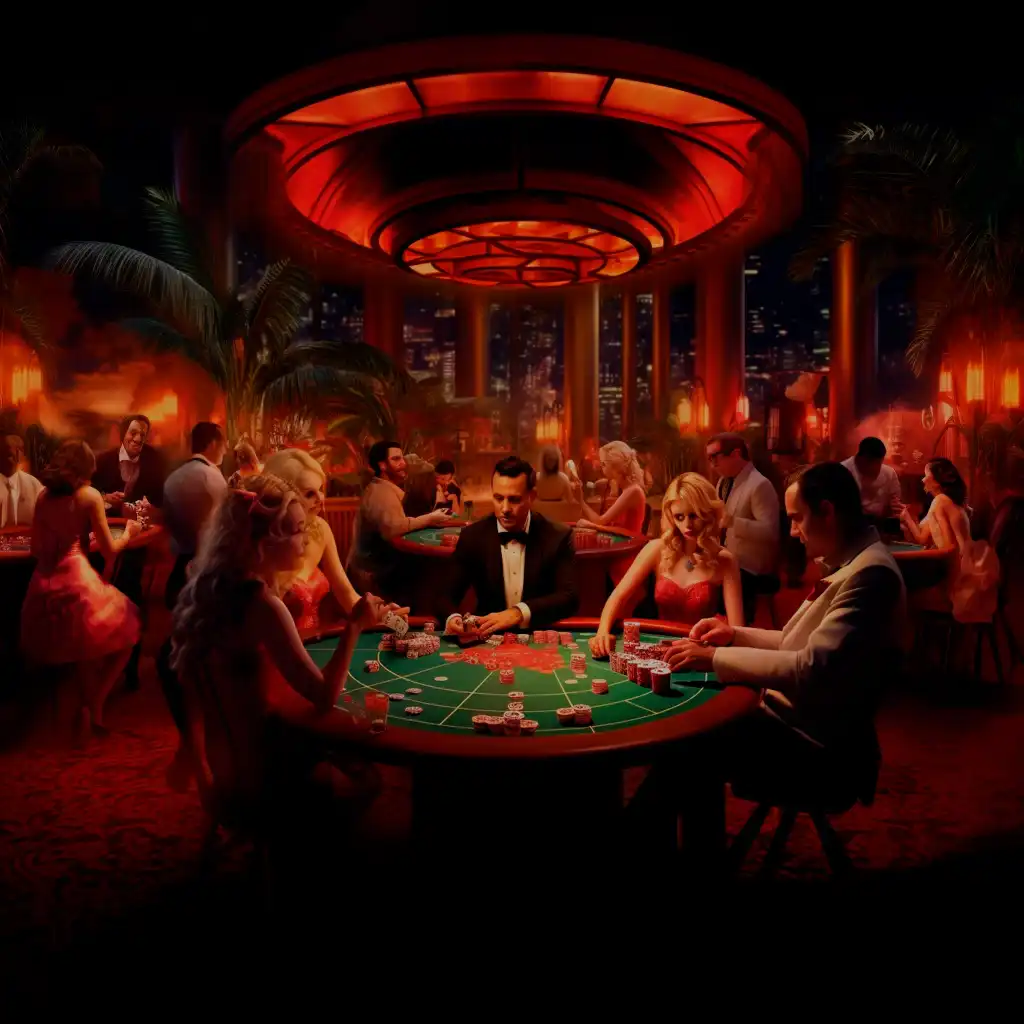
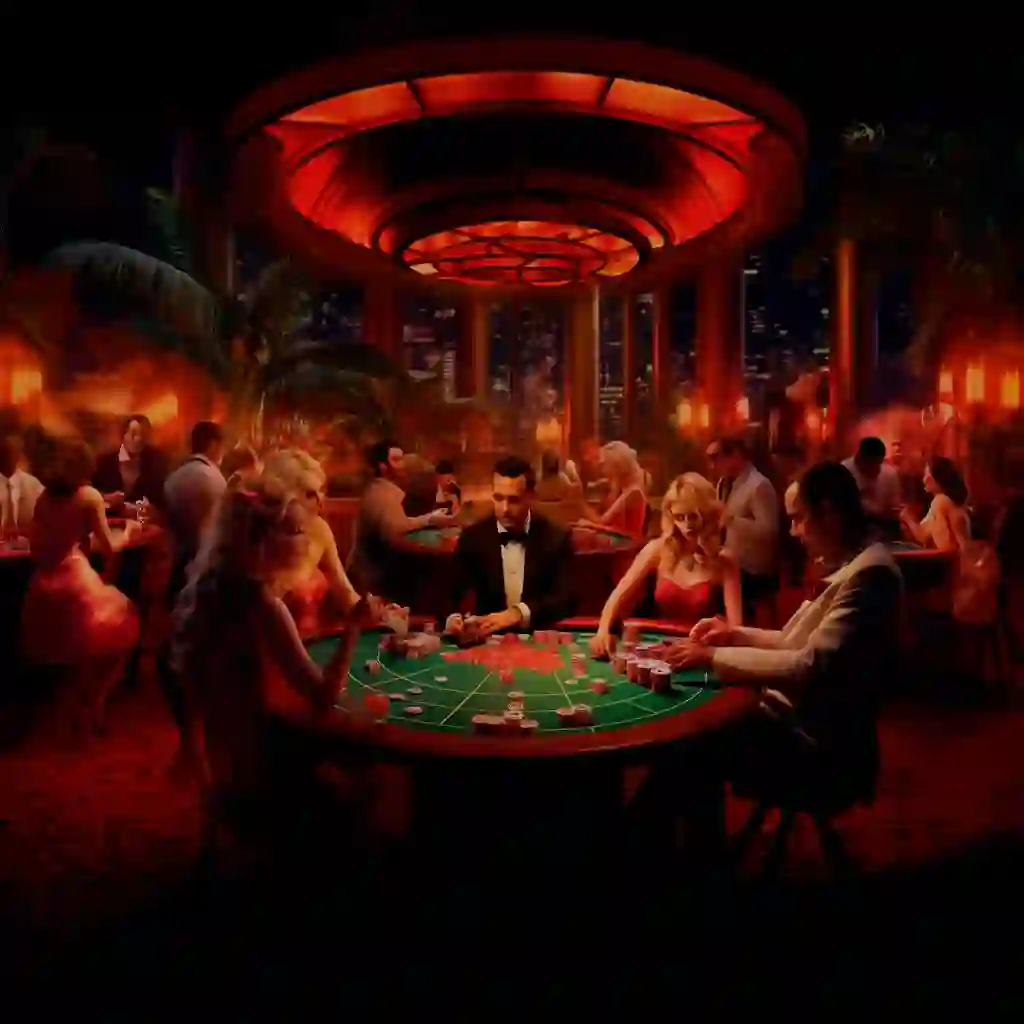
update

diff --git a/resources/views/sidebar.blade.php b/resources/views/sidebar.blade.php
@@ -6,21 +6,39 @@
         </div>
     @endif
 
-	<div class="casino-block-orange">@if($casino->cat_tablegames)<h3><i class="fa-solid fa-dice"></i>Table Games</h3>@endif
-        @if($casino->cat_poker)<h3><i class="fa-solid fa-coins"></i>Poker Tables</h3>@endif
-        @if($casino->cat_slotmachines)<h3><i class="fa-solid fa-dollar-sign"></i>Gaming Machine</h3>@endif
-        @if($casino->cat_sportsbook)<h3><i class="fa-solid fa-basketball"></i>Sports Book</h3>@endif
-        @if($casino->cat_horseracing)<h3><i class="fa-solid fa-horse"></i>Horse Racing</h3>@endif
-        @if($casino->cat_simulcasting)<h3><i class="fa-solid fa-screencast"></i>Simulcast</h3>@endif
-        @if($casino->cat_offtrack)<h3><i class="fa-solid fa-shuffle"></i>Off Track</h3>@endif
-        @if($casino->cat_greyhounds)<h3><i class="fa-solid fa-dog"></i>Greyhounds</h3>@endif
-        @if($casino->cat_bingo)<h3><i class="fa-solid fa-table-list"></i>Bingo</h3>@endif
-        @if($casino->cat_slotmachines)<h3><i class="fa-solid fa-circle-dollar-to-slot"></i>Slot Machines</h3>@endif</div>
+    <div class="casino-block-orange">@if($casino->cat_tablegames)
+            <h3><i class="fa-solid fa-dice"></i>Table Games</h3>
+        @endif
+        @if($casino->cat_poker)
+            <h3><i class="fa-solid fa-coins"></i>Poker Tables</h3>
+        @endif
+        @if($casino->cat_slotmachines)
+            <h3><i class="fa-solid fa-dollar-sign"></i>Gaming Machine</h3>
+        @endif
+        @if($casino->cat_sportsbook)
+            <h3><i class="fa-solid fa-basketball"></i>Sports Book</h3>
+        @endif
+        @if($casino->cat_horseracing)
+            <h3><i class="fa-solid fa-horse"></i>Horse Racing</h3>
+        @endif
+        @if($casino->cat_simulcasting)
+            <h3><i class="fa-solid fa-screencast"></i>Simulcast</h3>
+        @endif
+        @if($casino->cat_offtrack)
+            <h3><i class="fa-solid fa-shuffle"></i>Off Track</h3>
+        @endif
+        @if($casino->cat_greyhounds)
+            <h3><i class="fa-solid fa-dog"></i>Greyhounds</h3>
+        @endif
+        @if($casino->cat_bingo)
+            <h3><i class="fa-solid fa-table-list"></i>Bingo</h3>
+        @endif
+        @if($casino->cat_slotmachines)
+            <h3><i class="fa-solid fa-circle-dollar-to-slot"></i>Slot Machines</h3>
+        @endif</div>
 
 
-
-
-	<div class="casino-block-purple">
+    <div class="casino-block-purple">
         @if($casino->self_parking)
             <h3><i class="fa-solid fa-square-parking"></i>Self parking</h3>
         @endif
@@ -40,45 +58,56 @@
         @if($casino->spas)
             <h3><i class="fa-solid fa-spa"></i>Spas</h3>
         @endif</div>
-	<div class="casino-block" id="sumup">
-		<h3>To sum up</h3>
+    <div class="casino-block" id="sumup">
+        <h3>To sum up</h3>
 
-        <img loading="lazy"
+        <!--  <img loading="lazy"
              src="{{ env('APP_URL') . '/img/casino/mobile/' . $casino->img_url }}"
 
              srcset="{{ env('APP_URL') . '/img/casino/mobile/' . $casino->img_url }} 480w,
              {{ env('APP_URL') . '/img/casino/tablet/' . $casino->img_url }} 768w,
              {{ env('APP_URL') . '/img/casino/desktop/' . $casino->img_url }} 1024w"
              sizes="(max-width: 480px) 480px, (max-width: 768px) 768px, 1024px" alt="Casino presentation" class=" image-casino ">
+-->
+        <picture>
+            <source media="(min-width: 768px)"
+                    srcset="{{ env('APP_URL') . '/img/casino/desktop/' . $casino->img_url }}">
+            <source media="(max-width: 767px)"
+                    srcset="{{ env('APP_URL') . '/img/casino/mobile/' . $casino->img_url }}" width="300"
+                    height="200">
+            <img loading="lazy" class="rounded-3 img-fluid image-casino center-image"
+                 src="{{ env('APP_URL') . '/img/casino/desktop/' . $casino->img_url }}"
+                 alt="{{ $casino->name }}">
+        </picture>
 
+        <p class="pt-3">{!!  $casinoDetail->sumup!!}</p>
+    </div>
 
+    <div class="casino-block" id="games">
+        <h3>Games</h3>
+        <img loading="lazy" src="/img/sidebar-games.webp" alt="Casino Games" class="image-casino">
+        <p class="pt-3">{!!  $casinoDetail->games!!}</p>
+    </div>
 
-		<p class="pt-3">{!!  $casinoDetail->sumup!!}</p>
-	</div>
+    <div class="casino-block" id="funfacts">
+        <h3>Fun Facts</h3>
+        <img loading="lazy" src="/img/sidebar-facts.webp" alt="Casino Fun facts" class=" image-casino">
+        <p class="pt-3">{!!  $casinoDetail->fun_facts!!}</p>
+    </div>
 
-	<div class="casino-block" id="games">
-		<h3>Games</h3>
-		<img loading="lazy"  src="/img/sidebar-games.jpg" alt="Casino Games" class="image-casino">
-		<p class="pt-3">{!!  $casinoDetail->games!!}</p>
-	</div>
-
-	<div class="casino-block" id="funfacts">
-		<h3>Fun Facts</h3>
-		<img  loading="lazy"    src="/img/sidebar-facts.jpg" alt="Casino Fun facts" class=" image-casino">
-		<p class="pt-3">{!!  $casinoDetail->fun_facts!!}</p>
-	</div>
-
-	<div class="casino-block" id="contact">
-		<h3>Contact</h3>
-		<img  loading="lazy"   src="/img/sidebar-contact.jpg" alt="Casino contact" class=" image-casino">
-        <br>  <br>
-		<p>
+    <div class="casino-block" id="contact">
+        <h3>Contact</h3>
+        <img loading="lazy" src="/img/sidebar-contact.webp" alt="Casino contact" class=" image-casino">
+        <br> <br>
+        <p>
             @if($casino->telephone)
-                <i class="fa-solid fa-phone"></i> &nbsp; <a href="tel:{{  $casino->telephone   }}">{{  $casino->telephone   }}</a>
+                <i class="fa-solid fa-phone"></i> &nbsp; <a
+                    href="tel:{{  $casino->telephone   }}">{{  $casino->telephone   }}</a>
                 <br>
             @endif
             @if($casino->email)
-                <i class="fa-solid fa-envelope"></i> &nbsp; <a href="mailto:{{  $casino->email   }}">{{  $casino->email   }}</a>
+                <i class="fa-solid fa-envelope"></i> &nbsp; <a
+                    href="mailto:{{  $casino->email   }}">{{  $casino->email   }}</a>
                 <br>
             @endif
             @if($casino->adresse)
@@ -86,10 +115,11 @@
                 <br>
             @endif
             @if($casino->website)
-                <i class="fa-solid fa-globe"></i> &nbsp;<a href="{{  $casino->website   }}" target="_blank">Casino Website</a>
+                <i class="fa-solid fa-globe"></i> &nbsp;<a href="{{  $casino->website   }}" target="_blank">Casino
+                    Website</a>
                 <br>
             @endif
         </p>
-	</div>
+    </div>
 </aside>
 

diff --git a/resources/views/header.blade.php b/resources/views/header.blade.php
@@ -1,24 +1,21 @@
-
-
-
-
 <nav class="navbar navbar-expand-lg bg-body-tertiary header ">
     <div class="container-fluid   d-flex justify-content-between">
-        <a  class="navbar-brand  " href="/" alt="TheCasinos.com">
-            <img loading="lazy" id="logo" src="/img/logo-dark.png" alt="The Casinos">
+        <a class="navbar-brand  " href="/" alt="TheCasinos.com">
+            <img loading="lazy" id="logo" src="/img/logo-dark.webp" alt="The Casinos">
         </a>
-        <button class="navbar-toggler" type="button" data-bs-toggle="collapse" data-bs-target=".nav_item" aria-controls="navbarSupportedContent" aria-expanded="false" aria-label="Toggle navigation">
+        <button class="navbar-toggler" type="button" data-bs-toggle="collapse" data-bs-target=".nav_item"
+                aria-controls="navbarSupportedContent" aria-expanded="false" aria-label="Toggle navigation">
             <span class="navbar-toggler-icon"></span>
         </button>
 
         @if(Route::currentRouteNamed('index') ||  Route::currentRouteNamed('casino')  || Route::currentRouteNamed('category'))
-        <div class=" search-bar collapse navbar-collapse  nav_item " >
-            <input id="search-casino" class="align-middle  search-bar  "  placeholder="Search..."/>
-            <ul id="search-casino-list" class="search-casino-list d-none"></ul>
-            <button class="btn search-btn">
-                <img  loading="lazy" src="/img/icons/zoom.png" alt="Search" />
-            </button>
-        </div>
+            <div class=" search-bar collapse navbar-collapse  nav_item ">
+                <input id="search-casino" class="align-middle  search-bar  " placeholder="Search..."/>
+                <ul id="search-casino-list" class="search-casino-list d-none"></ul>
+                <button class="btn search-btn">
+                    <img loading="lazy" src="/img/icons/zoom.png" alt="Search"/>
+                </button>
+            </div>
         @endif
         <!-- <div class="language collapse navbar-collapse  nav_item ">
             <div class="dropdown">
@@ -35,13 +32,13 @@
 
         <div class=" collapse navbar-collapse nav_item  " role="search">
             @if (Route::currentRouteNamed('online'))
-                <a href="{{ route('index')}}"  class="btn-online form-control">ONLINE</a>
+                <a href="{{ route('index')}}" class="btn-online form-control">ONLINE</a>
             @else
                 <a href="{{ route('online')}}" class="btn-online form-control">ONLINE</a>
             @endif
-</div>
+        </div>
 
-</div>
+    </div>
 </nav>
 
 
